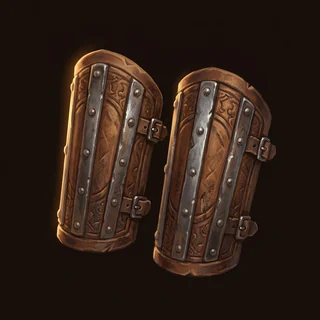
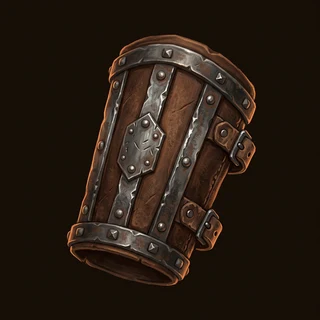
fix(arte): ombreira, braços e pernas avulsos, maças por peso e coroa de osso
Ombreira, braçadeira, avambraço e manopla viram uma peça só; calça e greva
fechada vão até o joelho; lança e machado leves no fundo liso; esmagamento
leve, médio e pesado (porrete, maça, estrela da manhã); coroa de marfim de
osso. Tiara sem latão e marfim, que saíram do catálogo.

Claude-Session: https://claude.ai/code/session_011mKRLwugiLHb71jj5aqaEQ

diff --git a/src/01-core/bases-item.test.jsx b/src/01-core/bases-item.test.jsx
@@ -256,3 +256,26 @@ describe('a base da arma é a classe de peso do grupo', () => {
     })).toBe('/equip/arma-besta.webp');   // besta ainda não tem versão por peso
   });
 });
+
+/* Ajustes de 28/11/2026 pedidos pelo usuário ao rever a página Imagens. */
+describe('os ajustes de 28/11/2026', () => {
+  it('as armas de esmagamento têm pintura por peso: porrete, maça, estrela da manhã', () => {
+    const arma = (nome, grupo_armas) => window.arteDoItem({ nome, slug: nome, categoria_equip: 'arma', grupo_armas, slot_equip: 'mao' });
+    expect(arma('Porrete', 'EL')).toBe('/equip/arma-maca-leve.webp');
+    expect(arma('Maça', 'EM')).toBe('/equip/arma-maca-medio.webp');
+    expect(arma('Clava', 'EM')).toBe('/equip/arma-maca-medio.webp');
+    expect(arma('Estrela da Manhã', 'EP')).toBe('/equip/arma-maca-pesado.webp');
+    for (const peso of ['leve', 'medio', 'pesado']) {
+      expect(window.artesDaBase('arma-' + peso).map((t) => t.variante)).toContain('Maça');
+    }
+  });
+
+  it('"o marfim são ossos": a coroa de marfim tem a sua pintura, não a de prata', () => {
+    expect(window.arteDaBase('coroa-marfim')).toBe('/equip/coroa-marfim.webp');
+  });
+
+  it('a tiara ficou com ouro, prata e cobre — latão e marfim saíram do catálogo', () => {
+    const tiaras = window.BASES_ITEM.filter((b) => b.familia === 'Tiara').map((b) => b.slug);
+    expect(tiaras).toEqual(['tiara-ouro', 'tiara-prata', 'tiara-cobre']);
+  });
+});

diff --git a/src/01-core/bases-item.jsx b/src/01-core/bases-item.jsx
@@ -146,8 +146,12 @@ const BASES_ITEM = [
      -prima dos dois. A Coroa ficou sem os dois (usuário, no mesmo dia:
      "Remova as coroas de cobre e latão"). */
   ...comArte(veste('chapeu', 'Chapéu', ['cabeca'], TECIDO), { linho: 'chapeu-algodao' }),
-  ...comArte(veste('coroa', 'Coroa', ['cabeca'], ['ouro', 'prata', 'marfim']), METAL_PROPRIO('coroa')),
-  ...comArte(veste('tiara', 'Tiara', ['cabeca'], METAL), METAL_PROPRIO('tiara')),
+  /* A coroa de marfim tem pintura própria, de OSSO (28/11/2026, usuário: "O
+     marfim são ossos, ou seja, coroa de marfim deve ser um exemplar de
+     ossos"); antes emprestava a de prata. */
+  ...comArte(veste('coroa', 'Coroa', ['cabeca'], ['ouro', 'prata', 'marfim']), { ...METAL_PROPRIO('coroa'), marfim: null }),
+  // Sem latão e marfim desde 28/11/2026: o usuário excluiu os dois exemplares do catálogo.
+  ...comArte(veste('tiara', 'Tiara', ['cabeca'], ['ouro', 'prata', 'cobre']), METAL_PROPRIO('tiara')),
   ...comArte(veste('capuz', 'Capuz', ['cabeca'], TECIDO), { linho: 'capuz-algodao' }),
   ...comArte(veste('mascara', 'Máscara', ['rosto'], METAL),
     { ouro: 'mascara-ferro', prata: 'mascara-ferro', cobre: 'mascara-ferro', latao: 'mascara-ferro', marfim: 'mascara-porcelana' }),

diff --git a/src/11-ficha/ficha.jsx b/src/11-ficha/ficha.jsx
@@ -1908,6 +1908,11 @@ const ARTE_PINTADA = new Set([
   'arma-arco-leve', 'arma-arco-medio', 'arma-arco-pesado',
   'arma-lanca-leve', 'arma-lanca-medio', 'arma-lanca-pesado',
   'arma-machado-leve', 'arma-machado-medio', 'arma-machado-pesado',
+  // As de esmagamento por peso (28/11/2026, usuário: "está faltando as armas de esmagamento leve, médio e pesado"):
+  // porrete, maça flangeada e estrela da manhã — o tipo "maca" lido do nome (clava, porrete, maça…).
+  'arma-maca-leve', 'arma-maca-medio', 'arma-maca-pesado',
+  // "O marfim são ossos" (usuário, 28/11/2026): a coroa de marfim é de osso, não a de prata.
+  'coroa-marfim',
 ]);
 
 /* A PINTURA SAI DO TIPO DA PEÇA (26/10/2026). As famílias novas são nomeadas

diff --git a/.impeccable/arte-equipamentos.md b/.impeccable/arte-equipamentos.md
@@ -714,3 +714,22 @@ Contagem: 229.
 | ✔ haalin | Haalin — lobo com chifres de carneiro, olhos de alma pálida |
 
 Contagem: 235.
+
+## Revisão de 28/11/2026 (usuário, ao rever a página Imagens)
+
+Os arquivos antigos ficaram em `preview/equip-arte/antigo-2026-11-28/`.
+
+| arquivo | o que mudou |
+|---|---|
+| ↻✔ ombreiras-leve | era o PAR; agora uma ombreira só, como o espaldar e o espaldar pesado |
+| ↻✔ bracos-leve · bracos-medio · bracos-pesado | braçadeira, avambraço e manopla: uma peça só, não o par |
+| ↻✔ pernas-leve · pernas-pesado | calça e greva fechada só até o joelho, como a greva (pernas-medio) |
+| ↻✔ arma-lanca-leve · arma-machado-leve | o fundo destoava (vinheta clara); refeitas no #17110A liso |
+| ✔ arma-maca-leve · arma-maca-medio · arma-maca-pesado | esmagamento por peso: porrete, maça flangeada, estrela da manhã |
+| ✔ coroa-marfim | "o marfim são ossos": coroa de osso entalhado com contas de âmbar (antes emprestava a de prata) |
+
+Catálogo: o usuário excluiu Chapéu de Linho, Tiara de Latão e Tiara de
+Marfim. As bases tiara-latao e tiara-marfim saíram do vocabulário;
+chapeu-linho fica (o Chapéu de Mago e o de Sacerdote a usam).
+
+Contagem: 239.
